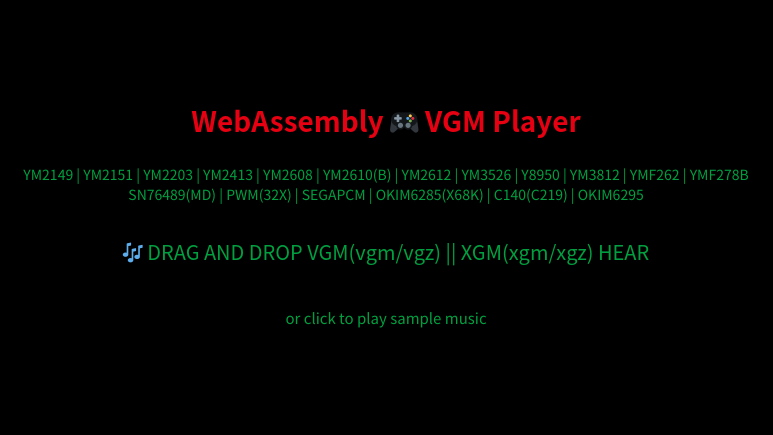
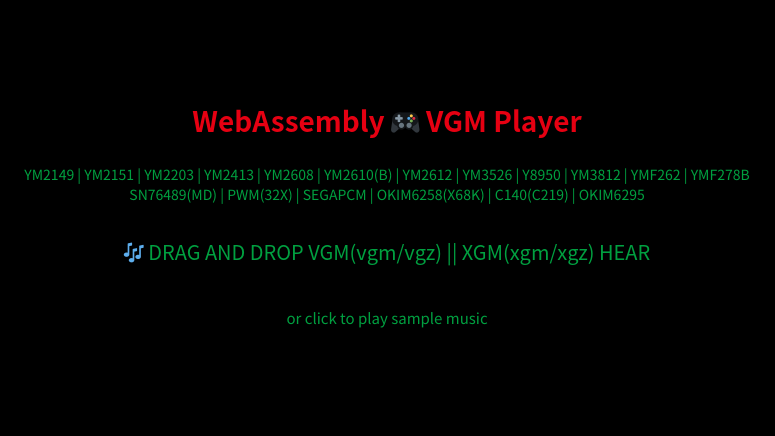
fix typo OKIM62"58"

diff --git a/public/index.b163ff46.js b/public/index.b163ff46.js
@@ -1,0 +1,2 @@
+function e(e,t,r,n){Object.defineProperty(e,t,{get:r,set:n,enumerable:!0,configurable:!0})}function t(e){return e&&e.__esModule?e.default:e}var r="undefined"!=typeof globalThis?globalThis:"undefined"!=typeof self?self:"undefined"!=typeof window?window:"undefined"!=typeof global?global:{},n={},a={},i=r.parcelRequire546c;null==i&&((i=function(e){if(e in n)return n[e].exports;if(e in a){var t=a[e];delete a[e];var r={id:e,exports:{}};return n[e]=r,t.call(r.exports,r,r.exports),r.exports}var i=new Error("Cannot find module '"+e+"'");throw i.code="MODULE_NOT_FOUND",i}).register=function(e,t){a[e]=t},r.parcelRequire546c=i),i.register("27Lyk",(function(t,r){var n,a;e(t.exports,"register",(()=>n),(e=>n=e)),e(t.exports,"resolve",(()=>a),(e=>a=e));var i={};n=function(e){for(var t=Object.keys(e),r=0;r<t.length;r++)i[t[r]]=e[t[r]]},a=function(e){var t=i[e];if(null==t)throw new Error("Could not resolve bundle with id "+e);return t}})),i.register("4wLdb",(function(r,n){e(r.exports,"WgmController",(()=>o),(e=>o=e));var a=i("2gP1w"),s=i("bHfhW");class o{constructor(e,t,r){this.module=e,this.worklet=null,this.worker=null,this.callback=null,this.sharedRingL=[],this.sharedRingR=[],this.sharedStatus=null,this.samplingRate=t,this.loopMaxCount=r,this.chunkSize=a.AUDIO_WORKLET_SAMPLING_CHUNK*a.BUFFERING_CHUNK_COUNT,this.feedOutRemain=1,this.feedOutSecond=Math.floor(this.chunkSize*this.feedOutRemain/t),this.context=null,this.gain=null,this.analyser=null,this.analyserBuffer=null,this.analyserBufferLength=null}async prepare(e,r){this.context=e;try{for(let e=0;e<a.BUFFER_RING_COUNT;e++)this.sharedRingL[e]=new SharedArrayBuffer(4*this.chunkSize),this.sharedRingR[e]=new SharedArrayBuffer(4*this.chunkSize);this.sharedStatus=new SharedArrayBuffer(1024)}catch(e){return!1}return this.worker=new Worker(i("eP3uQ")),this.worker.onmessage=e=>this.dispatch(e),this.sendWorker({message:"compile",shared:{ringL:this.sharedRingL,ringR:this.sharedRingR,status:this.sharedStatus}},(async()=>{await this.context.audioWorklet.addModule(t(s)),r()})),!0}init(){this.worklet=new AudioWorkletNode(this.context,"wgm-worklet-processor",{numberOfInputs:1,numberOfOutputs:1,outputChannelCount:[2],processorOptions:{ringL:this.sharedRingL,ringR:this.sharedRingR,status:this.sharedStatus,chunkSteps:a.BUFFERING_CHUNK_COUNT}}),this.worklet.port.onmessage=e=>this.dispatch(e),this.gain=this.context.createGain(),this.gain.connect(this.context.destination),this.worklet.connect(this.gain),this.analyser=this.context.createAnalyser(),this.analyserBufferLength=this.analyser.frequencyBinCount,this.analyserBuffer=new Uint8Array(this.analyserBufferLength),this.analyser.getByteTimeDomainData(this.analyserBuffer),this.gain.connect(this.analyser)}ready(){return null!=this.worklet}create(e,t,r){this.sendWorklet({message:"stop"},(()=>{this.sendWorker({message:"create",wgmdata:e,type:t,options:{samplingRate:this.samplingRate,chunkSize:this.chunkSize,loopMaxCount:this.loopMaxCount,feedOutRemain:this.feedOutRemain}},r)}))}play(e){this.gain.gain.setValueAtTime(1,this.context.currentTime),this.sendWorker({message:"start"}),this.sendWorklet({message:"play"},e)}getByteFrequencyData(){return this.analyser.getByteFrequencyData(this.analyserBuffer),this.analyserBuffer}getAnalyserBufferLength(){return this.analyserBufferLength}feedout(){const e=this.context.currentTime;this.gain.gain.setValueAtTime(1,e),this.gain.gain.linearRampToValueAtTime(0,e+this.feedOutSecond)}async dispatch(e){switch(e.data.message){case"callback":null!=this.callback&&await this.callback(e.data.data);break;case"feedout":this.feedout()}}sendWorklet(e,t){this.callback=null!=t?t:null,this.worklet.port.postMessage(e)}sendWorker(e,t){this.callback=null!=t?t:null,this.worker.postMessage(e)}}})),i.register("2gP1w",(function(t,r){e(t.exports,"AUDIO_WORKLET_SAMPLING_CHUNK",(()=>n)),e(t.exports,"BUFFERING_CHUNK_COUNT",(()=>a)),e(t.exports,"BUFFER_RING_COUNT",(()=>i));const n=128,a=768,i=4})),i.register("bHfhW",(function(e,t){e.exports=new URL(i("27Lyk").resolve("frDq4"),import.meta.url).toString()})),i.register("eP3uQ",(function(e,t){var r=i("7ryUf");let n=new URL(i("27Lyk").resolve("eDdCm"),import.meta.url);e.exports=r(n.toString(),n.origin,!0)})),i.register("7ryUf",(function(e,t){e.exports=function(e,t,r){if(t===self.location.origin)return e;var n=r?"import "+JSON.stringify(e)+";":"importScripts("+JSON.stringify(e)+");";return URL.createObjectURL(new Blob([n],{type:"application/javascript"}))}})),i("27Lyk").register(JSON.parse('{"g3LtT":"index.b163ff46.js","frDq4":"wgm_worklet_processor.4d3ce39b.js","eDdCm":"wgm_worker.67b7a792.js","fpIuB":"libymfm_bg.715e8e35.wasm"}'));var s=i("4wLdb");let o,l,u,f,c,h=null,d=[],g=44100,m=null;!function(){f=document.getElementById("screen"),f.setAttribute("width",768),f.setAttribute("height",576),(window.devicePixelRatio?window.devicePixelRatio:1)>1&&window.screen.width<768&&(f.style.width="320px",f.style.heigth="240px"),c=f.getContext("2d"),c.font="20px sans-serif",c.fillStyle="#00a040";const e="Now Loading...";let t=(768-c.measureText(e).width)/2;c.fillText(e,t,256)}();var p;p=new URL(i("27Lyk").resolve("fpIuB"),import.meta.url).toString(),async function(){if(""!=location.hash){const e=location.hash.match(/^#s=(\d+)/);null!=e&&(g=parseInt(e[1]),(g!=g||44100!=g&&48e3!=g&&88200!=g&&96e3!=g)&&(g=44100))}let e=await fetch(new URL(p));e=new Uint8Array(await e.arrayBuffer()),o=new(0,s.WgmController)(e,g,2),h=new(window.AudioContext||window.webkitAudioContext)({sampleRate:g}),await o.prepare(h,(()=>{y()}))||_()}();const y=()=>{w(),c.fillStyle="#00a040",c.font="14px sans-serif",B("YM2149 | YM2151 | YM2203 | YM2413 | YM2608 | YM2610(B) | YM2612 | YM3526 | Y8950 | YM3812 | YMF262 | YMF278B",176),B("SN76489(MD) | PWM(32X) | SEGAPCM | OKIM6258(X68K) | C140(C219) | OKIM6295",196),c.font="20px sans-serif",B("🎶 DRAG AND DROP VGM(vgm/vgz) || XGM(xgm/xgz) HEAR",256),c.font="15px sans-serif",B("or click to play sample music",320),A(),f.addEventListener("dragover",(function(e){return x(e),f.style.border="4px dotted #333333",!1}),!1),f.addEventListener("dragleave",(function(e){return x(e),f.style.border="4px solid #000",!1})),f.addEventListener("drop",b,!1),f.addEventListener("click",k,!1)},_=()=>{w(),B("System initialize error.",224),c.font="20px sans-serif",c.fillStyle="#00a040",B("Your browser does not support SharedArrayBuffer.",288),B("SharedArrayBuffer is supported by Firefox or Chromium systems.",320)},w=()=>{c.fillStyle="rgb(0, 0, 0)",c.fillRect(0,0,768,576),c.font="bold 28px sans-serif",c.fillStyle="#e60012",B("WebAssembly 🎮 VGM Player",128)},k=async()=>{f.removeEventListener("click",k,!1),u=v({track_name:"🤍 Thank you for trying this player",track_name_j:"",game_name:"",game_name_j:"A synthesizer written in WebAssembly",track_author:"See the GitHub repository for more information",track_author_j:""});const e=await fetch("./vgm/ym2612.vgm"),t=await e.arrayBuffer();S(t,"vgm",u)},x=function(e){e.preventDefault(),e.stopPropagation()},b=e=>{x(e),f.removeEventListener("click",k,!1),f.removeEventListener("drop",b,!1),f.style.border="4px solid #000";let t={},r=e.dataTransfer.files;return[].forEach.call(r,(function(e){let n=new FileReader;n.onload=function(){t[e.name]=n.result,Object.keys(t).length>=r.length&&(f.addEventListener("drop",b,!1),d=[],Object.keys(t).sort().forEach((function(e){d.push({filename:e,xgmdata:t[e]})})),l=d.length,R())},n.readAsArrayBuffer(e)})),!1},R=function(){if(d.length<=0)return;const e=d.shift();let t="vgm";/\.xg[m|z]$/.test(e.filename)&&(t="xgm"),S(e.xgmdata,t)},S=function(e,t,r){o.ready()||(h.resume(),o.init()),o.create(e,t,(e=>{null==r&&(u=v(e)),null!=m&&(window.cancelAnimationFrame(m),m=null),L(),o.play(R)}))},v=function(e){return e.game_track_name=[e.game_name,e.track_name].filter((e=>""!=e)).join(" | "),e.game_track_name_j=[e.game_name_j,e.track_name_j].filter((e=>""!=e)).join(" / "),e.track_author_full=[e.track_author,e.track_author_j].filter((e=>""!=e)).join(" - "),c.font="16px sans-serif",e.game_track_name_left=(768-c.measureText(e.game_track_name).width)/2,e.game_track_name_j_left=(768-c.measureText(e.game_track_name_j).width)/2,e.track_author_full_left=(768-c.measureText(e.track_author_full).width)/2,e},L=function(){m=window.requestAnimationFrame(L),c.fillStyle="rgb(0, 0, 0)",c.fillRect(0,0,768,576);let e=o.getByteFrequencyData(),t=o.getAnalyserBufferLength();c.lineWidth=1,c.beginPath(),c.strokeStyle="#e60012";let r=Math.round(t/192);c.setLineDash([2,1]),c.lineWidth=4;for(var n=0;n<t;n+=r)c.beginPath(),c.moveTo(n+2,576),c.lineTo(n+2,576-1.5*e[n]),c.stroke();c.stroke(),c.font="12px monospace",c.fillStyle="#00a040",l>=1&&B("Track "+(l-d.length)+" / "+l,192),c.font="16px sans-serif",c.fillText(u.game_track_name,u.game_track_name_left,224),c.fillText(u.game_track_name_j,u.game_track_name_j_left,256),c.fillText(u.track_author_full,u.track_author_full_left,288),A()},A=function(){if(44100==g)return;const e=" HD:"+g+" ";c.font="16px sans-serif";const t=c.measureText(e);c.fillStyle="#00a040",c.fillRect(768-t.width,0,768,18),c.fillStyle="rgb(0, 0, 0)",c.fillText(e,768-t.width,16)},B=function(e,t){let r=(768-c.measureText(e).width)/2;c.fillText(e,r,t)};
+//# sourceMappingURL=index.b163ff46.js.map

diff --git a/public/index.html b/public/index.html
@@ -1,1 +1,1 @@
-<!DOCTYPE html><html><head><meta charset="utf-8"><meta name="viewport" content="width=device-width"><meta name="twitter:card" content="summary_large_image"><meta name="twitter:site" content="@h1romas4"><meta name="twitter:creator" content="@h1romas4"><meta name="twitter:title" content="WebAssembly VGM Player"><meta name="twitter:description" content="Retro synthesizer on the Web browser using WebAssembly"><meta name="twitter:image" content="https://chipstream.netlify.app/images/ogp.png"><meta property="og:title" content="WebAssembly VGM Player"><meta property="og:url" content="https://chipstream.netlify.app/"><meta property="og:image" content="https://chipstream.netlify.app/images/ogp.png"><meta property="og:description" content="Retro synthesizer on the Web browser using WebAssembly"><link rel="stylesheet" href="/index.85a8807b.css"><title>WebAssembly VGM Player</title></head><body> <div> <div id="link"><a target="_blank" href="https://github.com/h1romas4/libymfm.wasm">GitHub Repos</a></div> <canvas id="screen"></canvas> </div> <script type="module" src="/index.85b77c73.js"></script> </body></html>
+<!DOCTYPE html><html><head><meta charset="utf-8"><meta name="viewport" content="width=device-width"><meta name="twitter:card" content="summary_large_image"><meta name="twitter:site" content="@h1romas4"><meta name="twitter:creator" content="@h1romas4"><meta name="twitter:title" content="WebAssembly VGM Player"><meta name="twitter:description" content="Retro synthesizer on the Web browser using WebAssembly"><meta name="twitter:image" content="https://chipstream.netlify.app/images/ogp.png"><meta property="og:title" content="WebAssembly VGM Player"><meta property="og:url" content="https://chipstream.netlify.app/"><meta property="og:image" content="https://chipstream.netlify.app/images/ogp.png"><meta property="og:description" content="Retro synthesizer on the Web browser using WebAssembly"><link rel="stylesheet" href="/index.85a8807b.css"><title>WebAssembly VGM Player</title></head><body> <div> <div id="link"><a target="_blank" href="https://github.com/h1romas4/libymfm.wasm">GitHub Repos</a></div> <canvas id="screen"></canvas> </div> <script type="module" src="/index.b163ff46.js"></script> </body></html>

diff --git a/examples/web/src/js/main.js b/examples/web/src/js/main.js
@@ -128,7 +128,7 @@ const start = () => {
     canvasContext.fillStyle = COLOR_MD_GREEN;
     canvasContext.font = '14px sans-serif';
     fillTextCenterd("YM2149 | YM2151 | YM2203 | YM2413 | YM2608 | YM2610(B) | YM2612 | YM3526 | Y8950 | YM3812 | YMF262 | YMF278B", CANVAS_HEIGHT / 2 - 32 * 4 + 16);
-    fillTextCenterd("SN76489(MD) | PWM(32X) | SEGAPCM | OKIM6285(X68K) | C140(C219) | OKIM6295", CANVAS_HEIGHT / 2 - 32 * 3 + 4);
+    fillTextCenterd("SN76489(MD) | PWM(32X) | SEGAPCM | OKIM6258(X68K) | C140(C219) | OKIM6295", CANVAS_HEIGHT / 2 - 32 * 3 + 4);
     canvasContext.font = '20px sans-serif';
     fillTextCenterd("🎶 DRAG AND DROP VGM(vgm/vgz) || XGM(xgm/xgz) HEAR", CANVAS_HEIGHT / 2 - 32 * 1);
     canvasContext.font = '15px sans-serif';

diff --git a/README.md b/README.md
@@ -34,7 +34,7 @@ The WebAssembly interface can be called from many computer languages by using Wa
 |SN76489|MAME|Rust ports|
 |SEGAPCM|MAME|Rust ports|
 |PWM|MAME|Rust ports|
-|OKIM6285|MAME|Rust ports|
+|OKIM6258|MAME|Rust ports|
 |C140/C219|MAME|Rust ports|
 |OKIM6295|MAME|Rust ports|
 
